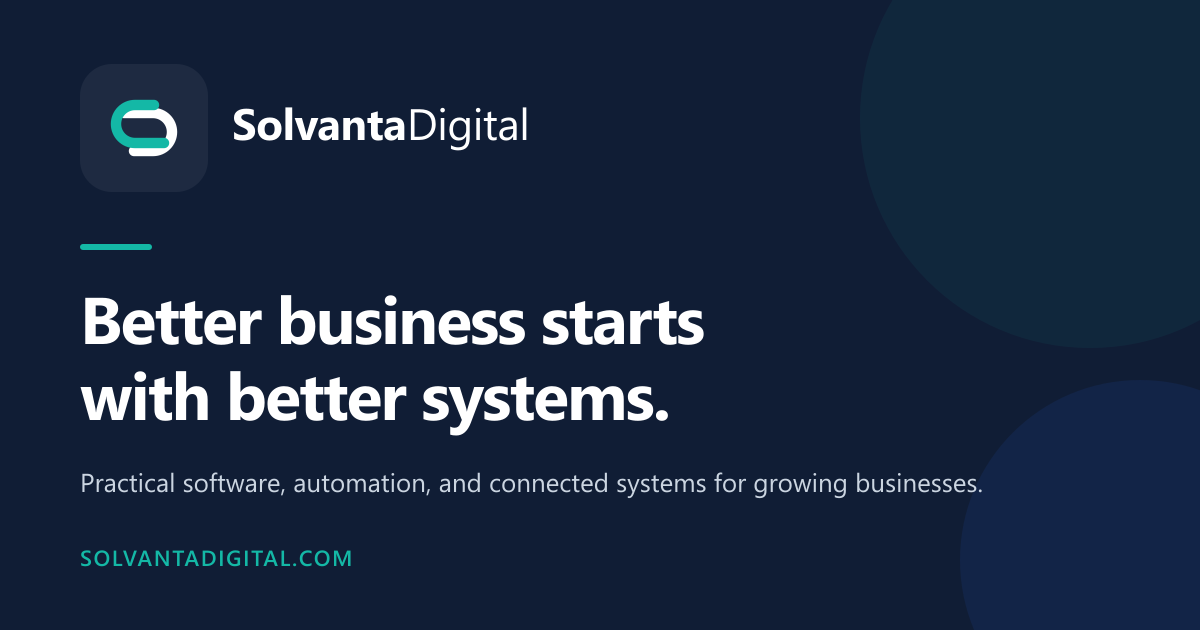
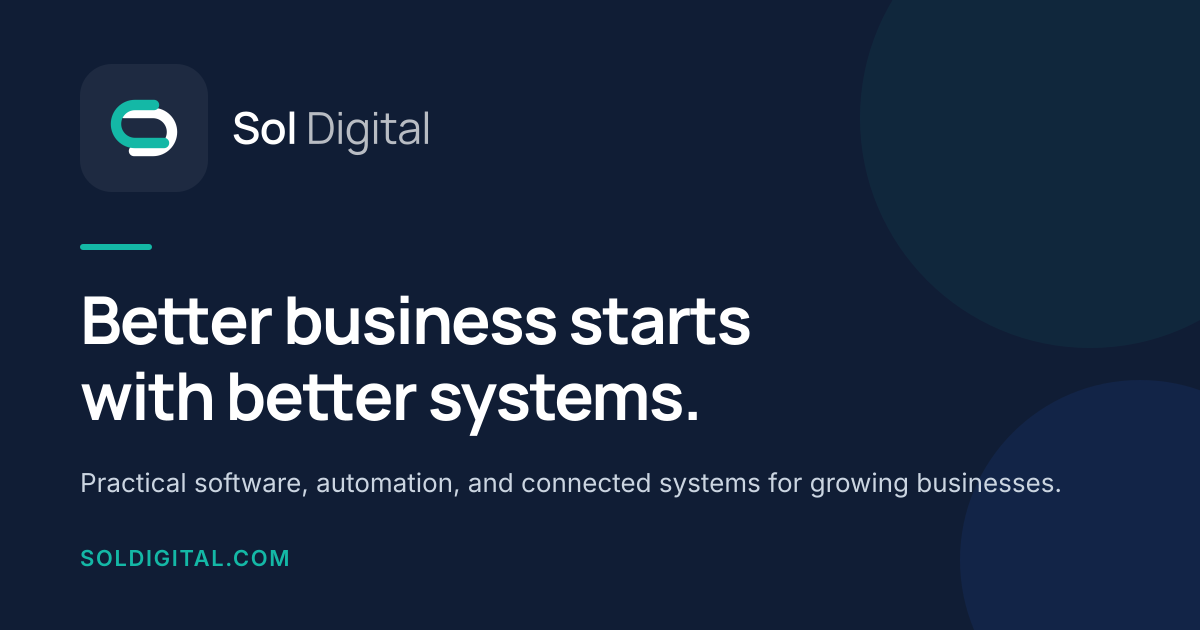
brand: rename Solvanta Digital to Sol Digital
- Update site name, domain, email, wordmark, page titles and descriptions

- Add Sol Digital logo pack: SVG lockups and marks, PNG exports, usage notes

- Regenerate the OG image with outlined Manrope and Inter text

- Update docs, tests, build plugin names and image cache name

- Keep soldigital.com and hello@soldigital.com marked as placeholders

diff --git a/src/data/pages.js b/src/data/pages.js
@@ -3,7 +3,7 @@ export const pages = [
     id: 'home',
     html: 'index.html',
     path: '/',
-    title: 'Solvanta Digital — Better Systems for Growing Businesses',
+    title: 'Sol Digital — Better Systems for Growing Businesses',
     headline: 'Better business starts with better systems.',
     description:
       'Business technology and automation for Philippine SMEs. Practical software, connected systems, and less manual work.',
@@ -13,7 +13,7 @@ export const pages = [
     id: 'services',
     html: 'services/index.html',
     path: '/services/',
-    title: 'Services — Software, Automation & Integrations | Solvanta',
+    title: 'Services — Software, Automation & Integrations | Sol Digital',
     headline: 'Technology solutions for businesses ready to grow.',
     description:
       'Custom software, business automation, integrations, analytics, cloud support and consulting for growing Philippine companies.',
@@ -23,7 +23,7 @@ export const pages = [
     id: 'solutions',
     html: 'solutions/index.html',
     path: '/solutions/',
-    title: 'Solutions — HR, Inventory, CRM & Automation | Solvanta',
+    title: 'Solutions — HR, Inventory, CRM & Automation | Sol Digital',
     headline: 'Systems built around how your business actually works.',
     description:
       'Systems for HR, inventory, customers, approvals and reporting — built around how your business already works.',
@@ -33,17 +33,17 @@ export const pages = [
     id: 'about',
     html: 'about/index.html',
     path: '/about/',
-    title: 'About — A Practical Technology Partner | Solvanta Digital',
+    title: 'About — A Practical Technology Partner | Sol Digital',
     headline: 'Technology that works for your business.',
     description:
-      'Solvanta Digital is a business technology partner helping Philippine companies simplify operations with practical systems.',
+      'Sol Digital is a business technology partner helping Philippine companies simplify operations with practical systems.',
     ogImage: '/og/og-default.png',
   },
   {
     id: 'portfolio',
     html: 'portfolio/index.html',
     path: '/portfolio/',
-    title: 'Portfolio — Demonstration Business Systems | Solvanta Digital',
+    title: 'Portfolio — Demonstration Business Systems | Sol Digital',
     headline: 'Demonstration projects',
     description:
       'Demonstration business systems — employee, inventory, analytics, approval and CRM concepts built to show the approach.',
@@ -53,7 +53,7 @@ export const pages = [
     id: 'insights',
     html: 'insights/index.html',
     path: '/insights/',
-    title: 'Insights — Technology for SMEs | Solvanta Digital',
+    title: 'Insights — Technology for SMEs | Sol Digital',
     headline: 'Practical technology, explained plainly.',
     description:
       'Practical guides on automation, custom software and digital transformation for Philippine small and medium businesses.',
@@ -63,7 +63,7 @@ export const pages = [
     id: 'contact',
     html: 'contact/index.html',
     path: '/contact/',
-    title: "Contact — Let's Talk About Your Business | Solvanta Digital",
+    title: "Contact — Let's Talk About Your Business | Sol Digital",
     headline: "Let's talk about your business.",
     description:
       "Tell us about your business and the processes you want to improve. We'll help you explore practical technology options.",

diff --git a/src/data/about.js b/src/data/about.js
@@ -1,6 +1,6 @@
 export const story = [
   'Most growing businesses do not stall because of a lack of ambition. They stall because the systems that worked at ten people stop working at forty.',
-  'Solvanta Digital exists to close that gap. We bring the systems larger companies take for granted — clean records, approvals that route themselves, reports that are ready when someone asks — within reach of businesses still running on spreadsheets and group chats.',
+  'Sol Digital exists to close that gap. We bring the systems larger companies take for granted — clean records, approvals that route themselves, reports that are ready when someone asks — within reach of businesses still running on spreadsheets and group chats.',
   'We are not a software reseller, and we do not arrive with a template. We start with how your team actually works, then build the smallest system that makes the week easier.',
 ]
 

diff --git a/src/data/site.js b/src/data/site.js
@@ -1,12 +1,12 @@
-export const SITE_URL = 'https://solvantadigital.com'
+export const SITE_URL = 'https://soldigital.com'
 
 export const site = {
-  name: 'Solvanta Digital',
+  name: 'Sol Digital',
   tagline: 'Better business starts with better systems.',
   positioning: 'Big-business capabilities, practical solutions for growing businesses.',
   description:
-    'Solvanta Digital helps Philippine businesses simplify operations with practical software, automation, and connected systems.',
-  email: 'hello@solvantadigital.com',
+    'Sol Digital helps Philippine businesses simplify operations with practical software, automation, and connected systems.',
+  email: 'hello@soldigital.com',
   phone: '+63 900 000 0000',
   location: 'Philippines',
   isPlaceholder: true,

diff --git a/src/pages/Insights.vue b/src/pages/Insights.vue
@@ -31,7 +31,7 @@ onMounted(() => {
     <div class="container-page pt-10">
       <Banner
         title="About these articles"
-        text="Sample articles written in the Solvanta voice to demonstrate the kind of guidance we publish. They are not client case studies, and they are not a substitute for advice about your specific situation."
+        text="Sample articles written in the Sol Digital voice to demonstrate the kind of guidance we publish. They are not client case studies, and they are not a substitute for advice about your specific situation."
       />
     </div>
 

diff --git a/src/pages/About.vue b/src/pages/About.vue
@@ -17,7 +17,7 @@ onMounted(() => {
 <template>
   <MainLayout>
     <PageHeader
-      eyebrow="About Solvanta"
+      eyebrow="About Sol Digital"
       title="A practical technology partner for growing businesses."
       lead="We help teams replace spreadsheets, chat threads, and guesswork with systems that fit how they already work — and keep fitting as they grow."
       :image="img('about-collaboration')"

diff --git a/src/data/projects.js b/src/data/projects.js
@@ -1,5 +1,5 @@
 export const projectsNote =
-  'These are demonstration concepts built to show how Solvanta approaches common business problems. They are not client engagements and are not commercial products.'
+  'These are demonstration concepts built to show how Sol Digital approaches common business problems. They are not client engagements and are not commercial products.'
 
 export const projects = [
   {

diff --git a/src/components/layout/Wordmark.vue b/src/components/layout/Wordmark.vue
@@ -27,7 +27,7 @@ defineProps({
       class="font-display text-lg leading-none tracking-tight"
       :class="tone === 'light' ? 'text-white' : 'text-navy'"
     >
-      <span class="font-semibold">Solvanta</span><span class="font-normal opacity-70"> Digital</span>
+      <span class="font-semibold">Sol</span><span class="font-normal opacity-70"> Digital</span>
     </span>
   </span>
 </template>

diff --git a/src/components/sections/WhySection.vue b/src/components/sections/WhySection.vue
@@ -13,7 +13,7 @@ import { img } from '../../lib/images'
 
       <div>
         <SectionHeading
-          eyebrow="Why Solvanta"
+          eyebrow="Why Sol Digital"
           title="Technology that works around your business."
           lead="Not the other way around. The tools should follow how your team already succeeds, then remove the parts that slow them down."
         />

diff --git a/tests/layout.test.js b/tests/layout.test.js
@@ -34,7 +34,7 @@ afterEach(() => {
 describe('Wordmark', () => {
   it('shows the brand name next to the mark', () => {
     const wrapper = mount(Wordmark)
-    expect(wrapper.text()).toContain('Solvanta')
+    expect(wrapper.text()).toContain(site.name)
     expect(wrapper.text()).toContain('Digital')
     expect(wrapper.find('svg').exists()).toBe(true)
   })

diff --git a/tests/data.test.js b/tests/data.test.js
@@ -41,7 +41,7 @@ const words = (text) => text.trim().split(/\s+/).filter(Boolean).length
 
 describe('site', () => {
   it('uses an absolute https origin', () => {
-    expect(SITE_URL).toBe('https://solvantadigital.com')
+    expect(SITE_URL).toBe('https://soldigital.com')
   })
 
   it('has the seven navigation entries in order', () => {

diff --git a/build/stable-font-display.js b/build/stable-font-display.js
@@ -7,7 +7,7 @@
  */
 export function stableFontDisplay() {
   return {
-    name: 'solvanta-stable-font-display',
+    name: 'sol-digital-stable-font-display',
     enforce: 'pre',
     transform(code, id) {
       if (!id.includes('@fontsource') || !id.includes('.css')) return null

diff --git a/build/seo-plugin.js b/build/seo-plugin.js
@@ -78,7 +78,7 @@ export function seo() {
   let outDir = 'dist'
 
   return {
-    name: 'solvanta-seo',
+    name: 'sol-digital-seo',
     configResolved(config) {
       outDir = config.build.outDir
     },
